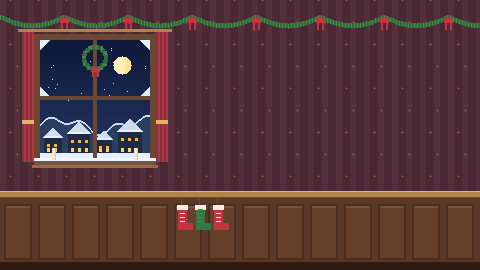
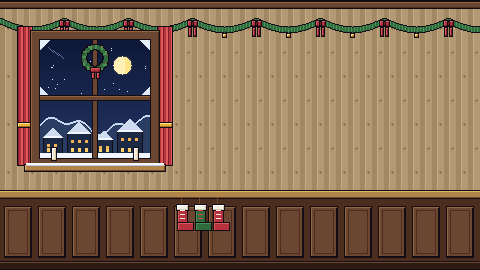
Claw room: walls and window repainted in the cabinet's style
Every object on the walls now has the cabinet's 1 px ink outline with a lit and a shaded edge: the
window's thick wooden casing, its snowy sill and candles, the curtains with folds and gold
tie-backs, the wreath, garland, bows and baubles, the stockings, the tree, the gifts and the
painting. The wallpaper is a warm tan so the red cabinet and Crimson stand out against it, and the
base wall underneath matches it. The window, candles, tree lights and star keep their places.

diff --git a/public/minigames/claw-noel.html b/public/minigames/claw-noel.html
@@ -438,14 +438,14 @@ function drawCabinetRoom(v){
      panel([wall(corner,y),wall(far,y),wall(far,h),wall(corner,h)],front,null);
      panel([side(-far,y),side(back,y),side(back,h),side(-far,h)],tint,null);
    }
-   // Under the painted walls (claw-room-*.png): the same plum wallpaper and wood, so no gap ever shows another colour.
-   wallBand(0,far,'#4a2833','#40232c');
+   // Under the painted walls (claw-room-*.png): the same tan wallpaper and wood, so no gap ever shows another colour.
+   wallBand(0,far,'#b49a74','#a38963');
    // Staggered masonry over dark painted wood panelling.
    for(let y=82,row=0;y<Math.min(far,height/v.scale+320);y+=20,row++){
-     wire([wall(corner,y),wall(far,y)],'#53303b',1);
-     wire([side(-far,y),side(back,y)],'#472830',1);
-     for(let x=corner+(row%2)*28;x<far;x+=56)wire([wall(x,y),wall(x,y+20)],'#53303b',1);
-     for(let z=back-(row%2)*28;z>-far;z-=56)wire([side(z,y),side(z,y+20)],'#472830',1);
+     wire([wall(corner,y),wall(far,y)],'#a38963',1);
+     wire([side(-far,y),side(back,y)],'#9a805b',1);
+     for(let x=corner+(row%2)*28;x<far;x+=56)wire([wall(x,y),wall(x,y+20)],'#a38963',1);
+     for(let z=back-(row%2)*28;z>-far;z-=56)wire([side(z,y),side(z,y+20)],'#9a805b',1);
    }
    wallBand(0,77,'#5a3826','#4a2d1f');
    for(let x=corner+9;x<far;x+=26)wire([wall(x,6),wall(x,73)],'#64402b',2);

diff --git a/tools/assets/make_claw_room.py b/tools/assets/make_claw_room.py
@@ -3,11 +3,17 @@
 Outputs (public/assets/ui/noel/):
   claw-room-back.png  640 x 270  back wall, x = -44 .. 596 (column c -> x = -44 + c)
   claw-room-side.png  480 x 270  left wall, z = 68 .. -412 (column c -> z = 68 - c)
-Both run well past the edges of the widest view, so the old masonry behind them never shows.
+Both run well past the edges of the widest view, so nothing behind them shows.
 Row r is wall height y = 270 - r on both.
-The page (public/minigames/claw-noel.html, drawCabinetRoom / drawRoomLife) maps each image onto its
-wall plane and animates what moves on top of them (window snow, candle flames, tree lights, the star),
-using the same column/row coordinates listed in ROOM_FX there. Keep the two in step.
+
+Drawn in the claw machine's own style: every object has a 1 px ink outline (the cabinet's
+#120c14), a lit top-left edge and a shaded bottom-right edge. The wallpaper is a warm tan so the
+red cabinet and Crimson stand out against it.
+
+The page (public/minigames/claw-noel.html, drawCabinetRoom / drawRoomLife / drawSnowballFight) maps
+each image onto its wall plane and animates what moves on top of them: window snow and the two
+skins playing outside (glass x 40..150, y 112..230; the middle bar at columns 93..96), candle
+flames (x 52 and 134), tree lights and the star. Keep those spots where they are.
 """
 from pathlib import Path
 import math, random
@@ -16,6 +22,13 @@ from PIL import Image, ImageDraw
 ROOT = Path(__file__).resolve().parents[2]
 OUT_DIR = ROOT / 'public/assets/ui/noel'
 H = 270
+INK = '#120c14'
+WOOD, WOOD_D, WOOD_L = '#6b4630', '#4a2d1f', '#93653f'
+PAPER, PAPER_D, PAPER_L, MOTIF = '#b49a74', '#a38963', '#c4ab84', '#8f744f'
+RED, RED_D, RED_L = '#b8323d', '#7d1f2b', '#dd5a5a'
+GREEN, GREEN_D, GREEN_L = '#2f6b3c', '#1f4a2a', '#4c9258'
+GOLD, GOLD_D, GOLD_L = '#e8b23a', '#a86e22', '#ffe08a'
+SNOW, SNOW_D = '#f2f6ff', '#bccbe3'
 
 
 class Wall:
@@ -33,26 +46,51 @@ class Wall:
     def px(self, c, y, col):
         self.rect(c, y, 1, 1, col)
 
+    def box(self, c, y, w, h, fill, light=None, dark=None):
+        """An outlined block: ink border, lit top and left edges, shaded bottom and right edges."""
+        self.rect(c, y, w, h, INK)
+        self.rect(c + 1, y + 1, w - 2, h - 2, fill)
+        if light:
+            self.rect(c + 1, y + h - 2, w - 2, 1, light); self.rect(c + 1, y + 1, 1, h - 2, light)
+        if dark:
+            self.rect(c + 1, y + 1, w - 2, 1, dark); self.rect(c + w - 2, y + 1, 1, h - 3, dark)
+
     def base(self):
         W, r = self.w, self.rect
-        r(0, 77, W, H - 77, '#4a2833')                      # plum wallpaper
-        for c in range(0, W, 14):
-            r(c, 77, 6, H - 77, '#53303b')
-        for y in range(92, H, 22):
-            for c in range(10, W, 28):
-                cc = c + (7 if (y // 22) % 2 else 0)
+        # wallpaper: soft vertical stripes with a small diamond motif
+        r(0, 77, W, H - 77, PAPER)
+        for c in range(0, W, 12):
+            r(c, 77, 5, H - 77, PAPER_D)
+            r(c + 5, 77, 1, H - 77, PAPER_L)
+        for y in range(96, H - 14, 24):
+            for c in range(8, W, 24):
+                cc = c + (12 if (y // 24) % 2 else 0)
                 for dy, w in ((0, 1), (1, 3), (2, 1)):
-                    r(cc - w // 2, y + dy, w, 1, '#7a5040')
-        r(0, 0, W, 77, '#5a3826')                           # wainscot
+                    r(cc - w // 2, y + dy, w, 1, MOTIF)
+        # crown moulding under the ceiling
+        r(0, H - 9, W, 9, INK); r(0, H - 8, W, 6, WOOD); r(0, H - 8, W, 1, WOOD_D); r(0, H - 3, W, 1, WOOD_L)
+        # wainscot: outlined raised panels with a bevel
+        r(0, 0, W, 77, WOOD_D)
         for c in range(4, W, 34):
-            r(c, 10, 28, 56, '#4a2d1f'); r(c + 2, 12, 24, 52, '#64402b'); r(c + 2, 62, 24, 2, '#7a5236')
-        r(0, 0, W, 8, '#2e1c14')
-        r(0, 72, W, 7, '#b0844a'); r(0, 78, W, 1, '#e3b56a'); r(0, 72, W, 1, '#6e4a26')
-        for c in range(W):                                  # garland swag with bows
-            y = 252 - int(9 * abs(math.sin(c * math.pi / 64)))
-            r(c, y - 2, 1, 5, '#2f6b3c' if c % 3 else '#3f8a4c')
+            self.box(c, 12, 28, 52, WOOD, WOOD_L, INK)
+            r(c + 4, 16, 20, 44, WOOD_D); r(c + 5, 17, 18, 42, WOOD)
+        r(0, 0, W, 9, INK); r(0, 1, W, 7, '#2e1c14'); r(0, 7, W, 1, WOOD)
+        # chair rail
+        r(0, 71, W, 9, INK); r(0, 72, W, 7, '#b0844a'); r(0, 78, W, 1, '#e3b56a'); r(0, 72, W, 1, '#6e4a26')
+        # garland swag with outlined bows and gold baubles
+        for c in range(W):
+            y = 248 - int(9 * abs(math.sin(c * math.pi / 64)))
+            r(c, y - 3, 1, 7, INK)
+            r(c, y - 2, 1, 5, GREEN if c % 3 else GREEN_L)
+            if c % 5 == 0:
+                r(c, y - 2, 1, 1, GREEN_D)
+        for c in range(32, W, 64):
+            y = 248 - int(9 * abs(math.sin(c * math.pi / 64)))
+            self.box(c - 2, y - 7, 5, 5, GOLD, GOLD_L, GOLD_D)
         for c in range(64, W, 64):
-            r(c - 4, 247, 9, 5, '#c8333f'); r(c - 3, 240, 2, 7, '#c8333f'); r(c + 2, 240, 2, 7, '#c8333f')
+            self.box(c - 5, 243, 11, 7, RED, RED_L, RED_D)
+            self.box(c - 4, 233, 4, 10, RED, RED_L, RED_D); self.box(c + 1, 233, 4, 10, RED, RED_L, RED_D)
+            self.box(c - 1, 244, 3, 5, RED_D)
 
     def save(self, name):
         path = OUT_DIR / name
@@ -63,86 +101,116 @@ class Wall:
 # ---------------------------------------------------------------- back wall: tree, gifts, painting
 back = Wall(640)
 back.base()
-r, p = back.rect, back.px
-# a framed winter painting above where Crimson stands
-FX, FY = 214, 150
-r(FX - 3, FY - 3, 50, 40, '#b0844a'); r(FX - 2, FY - 2, 48, 38, '#6e4a26')
+r, p, box = back.rect, back.px, back.box
+FX, FY = 214, 150                                           # a framed winter painting
+box(FX - 5, FY - 5, 54, 44, '#b0844a', GOLD_L, '#6e4a26')
+r(FX - 2, FY - 2, 48, 38, INK)
 for i in range(34):
     t = i / 34
     r(FX, FY + i, 44, 1, (int(40 - 20 * t), int(70 - 30 * t), int(120 - 40 * t), 255))
 for c in range(44):
     h = int(10 + 4 * math.sin(c / 6))
     r(FX + c, FY, 1, h, '#e6eefb')
-for k in range(7):                                         # a little pine in the painting
-    r(FX + 30 - k, FY + 8 + k * 2, 2 * k + 1, 2, '#2f6b3c')
-r(FX + 8, FY + 24, 4, 4, '#fff0b8')                         # moon
+    r(FX + c, FY + h, 1, 1, SNOW_D)
+for k in range(7):
+    r(FX + 30 - k, FY + 8 + k * 2, 2 * k + 1, 2, GREEN)
+r(FX + 8, FY + 24, 4, 4, '#fff0b8')
 TX = 262 + 44                                               # tree trunk centre (x = 262)
-r(TX - 4, 10, 9, 12, '#5a3a24')
+box(TX - 5, 9, 11, 14, '#5a3a24', '#7a5230', '#3a2416')
 for base_y, top, half in ((22, 82, 42), (70, 128, 33), (114, 166, 24), (152, 196, 14)):
     for y in range(base_y, top):
         w = int(half * (1 - (y - base_y) / (top - base_y))) + 1
-        for x in range(-w, w + 1):
-            p(TX + x, y, '#1f5a34' if abs(x) >= w - 1 else ('#2f7a46' if (x + y) % 5 else '#3a8c52'))
+        for x in range(-w - 1, w + 2):
+            if abs(x) >= w:
+                p(TX + x, y, INK)
+            else:
+                p(TX + x, y, '#1f5a34' if x > w // 2 else ('#2f7a46' if (x + y) % 5 else '#3a8c52'))
+    for x in range(-half, half + 1):
+        p(TX + x, base_y, INK)
+        if abs(x) < half - 1:
+            p(TX + x, base_y + 1, SNOW if (x // 3) % 2 else SNOW_D)
 for k in range(5):                                          # tinsel
     for x in range(-40 + k * 8, 41 - k * 8):
         p(TX + x, 40 + k * 32 + int(4 * math.sin((x + k * 9) / 6)), '#e8c060' if (x // 2) % 2 else '#fff0a8')
-for ox, oy, col in ((-22, 50, '#c8333f'), (18, 58, '#3e6fd0'), (-8, 96, '#e8c060'), (16, 108, '#c8333f'),
-                    (-14, 140, '#3e6fd0'), (6, 150, '#e8c060'), (-28, 30, '#e8c060'), (30, 34, '#c8333f')):
-    r(TX + ox - 2, oy - 2, 5, 5, col); p(TX + ox - 1, oy + 1, '#ffffff')
-r(TX - 1, 196, 3, 4, '#b8862c')                             # star stem (the star is animated)
-for gx, gw, gh, body, ribbon in ((250, 26, 20, '#c8333f', '#f2d27a'), (280, 18, 14, '#3e6fd0', '#f4efe4'),
-                                 (328, 24, 18, '#2f7a46', '#e0414a'), (350, 14, 24, '#e8c060', '#c8333f')):
-    r(gx, 8, gw, gh, body); r(gx + gw // 2 - 1, 8, 3, gh, ribbon); r(gx, 8 + gh // 2, gw, 2, ribbon)
-    r(gx + gw // 2 - 4, 8 + gh, 3, 3, ribbon); r(gx + gw // 2 + 2, 8 + gh, 3, 3, ribbon)
+for ox, oy, col, lit in ((-22, 50, RED, RED_L), (18, 58, '#3e6fd0', '#7fa8ff'), (-8, 96, GOLD, GOLD_L), (16, 108, RED, RED_L),
+                         (-14, 140, '#3e6fd0', '#7fa8ff'), (6, 150, GOLD, GOLD_L), (-28, 30, GOLD, GOLD_L), (30, 34, RED, RED_L)):
+    box(TX + ox - 3, oy - 3, 7, 7, col, lit)
+    p(TX + ox - 1, oy + 1, '#ffffff')
+box(TX - 2, 195, 5, 5, '#b8862c')                           # star stem (the star is animated)
+for gx, gw, gh, body, lit, ribbon in ((250, 26, 20, RED, RED_L, '#f2d27a'), (280, 18, 14, '#3e6fd0', '#7fa8ff', '#f4efe4'),
+                                      (328, 24, 18, GREEN, GREEN_L, '#e0414a'), (350, 14, 24, GOLD, GOLD_L, RED)):
+    box(gx, 8, gw, gh, body, lit, INK)
+    r(gx + gw // 2 - 1, 9, 3, gh - 2, ribbon); r(gx + 1, 8 + gh // 2, gw - 2, 2, ribbon)
+    box(gx + gw // 2 - 6, 7 + gh, 5, 4, ribbon); box(gx + gw // 2 + 2, 7 + gh, 5, 4, ribbon)
 back.save('claw-room-back.png')
 
 # ---------------------------------------------------------------- side wall: window, stockings
 side = Wall(480)
 side.base()
-r, p = side.rect, side.px
+r, p, box = side.rect, side.px, side.box
 rnd = random.Random(7)
 WX, WY, WW, WH = 40, 112, 110, 118                          # window glass
-for i in range(WH):
+# curtains behind the frame: deep red with folds, an ink edge and gold tie-backs
+for cx in (WX - 22, WX + WW + 8):
+    r(cx - 1, WY - 8, 16, WH + 22, INK)
+    for i in range(14):
+        r(cx + i, WY - 7, 1, WH + 20, RED_D if i % 5 == 0 else RED if i % 5 < 3 else RED_L)
+    box(cx - 1, WY + 30, 16, 6, GOLD, GOLD_L, GOLD_D)
+# frame: an outlined wooden casing with a bevel
+box(WX - 10, WY - 10, WW + 20, WH + 20, WOOD, WOOD_L, WOOD_D)
+r(WX - 1, WY - 1, WW + 2, WH + 2, INK)
+for i in range(WH):                                         # night sky
     t = i / WH
     r(WX, WY + i, WW, 1, (int(36 - 22 * t), int(54 - 30 * t), int(100 - 44 * t), 255))
-for _ in range(28):
+for _ in range(34):
     p(WX + rnd.randrange(WW), WY + 55 + rnd.randrange(WH - 60), '#dfe9ff')
-for dy in range(-9, 10):
-    for dx in range(-9, 10):
-        if dx * dx + dy * dy <= 81:
-            p(WX + 82 + dx, WY + 92 + dy, '#fff0b8' if dx < 3 else '#ffe48a')
-for x in range(WW):
+for dy in range(-10, 11):                                   # moon with a soft ink rim
+    for dx in range(-10, 11):
+        d2 = dx * dx + dy * dy
+        if d2 <= 100:
+            p(WX + 82 + dx, WY + 92 + dy, '#2c3550' if d2 > 81 else '#fff0b8' if dx < 3 else '#ffe48a')
+for x in range(WW):                                         # snowy hills
     h = int(34 + 6 * math.sin(x / 13) + 4 * math.sin(x / 5.3))
     r(WX + x, WY, 1, h, '#2a3d63'); r(WX + x, WY + h - 2, 1, 2, '#c9d9ef')
 for hx, hw, hh in ((4, 18, 20), (28, 22, 24), (56, 16, 18), (78, 24, 26)):
+    r(WX + hx - 1, WY, hw + 2, hh + 1, INK)
     r(WX + hx, WY, hw, hh, '#1d2a45')
     for k in range(hw // 2 + 2):
-        r(WX + hx - 1 + k, WY + hh + k, hw + 2 - 2 * k, 1, '#e8f1ff' if k < 2 else '#cfdcf0')
+        r(WX + hx - 1 + k, WY + hh + k, hw + 2 - 2 * k, 1, SNOW if k < 2 else '#cfdcf0')
     for wx in range(hx + 3, hx + hw - 3, 7):
         r(WX + wx, WY + 6, 3, 4, '#ffcf6a'); r(WX + wx, WY + hh - 9, 3, 3, '#f5b453')
-r(WX, WY, WW, 5, '#e6eefb')
-r(WX - 6, WY - 8, WW + 12, 8, '#7a5133'); r(WX - 8, WY - 10, WW + 16, 3, '#9b6a40'); r(WX - 6, WY - 3, WW + 12, 3, '#f2f6ff')
-r(WX - 6, WY, 6, WH + 6, '#6b4630'); r(WX + WW, WY, 6, WH + 6, '#6b4630'); r(WX - 6, WY + WH, WW + 12, 6, '#6b4630')
-r(WX + WW // 2 - 2, WY, 4, WH, '#6b4630'); r(WX, WY + 58, WW, 4, '#6b4630')
-for k in range(10):
+r(WX, WY, WW, 5, SNOW)
+for k in range(10):                                         # frost in the corners
     for c0 in (WX + k, WX + WW - 1 - k):
         r(c0, WY + 62, 1, 9 - k, '#dfeaff'); r(c0, WY + WH - 10 + k, 1, 10 - k, '#e7f0ff')
-for cx in (WX - 18, WX + WW + 6):
-    for i in range(12):
-        r(cx + i, WY - 4, 1, WH + 12, '#8e2f3c' if i % 4 < 2 else '#a93a46')
-    r(cx, WY + 34, 12, 4, '#e3b56a')
-r(WX - 22, WY + WH + 8, WW + 44, 3, '#b0844a')
+for g in range(3):                                          # glass glints
+    for k in range(6):
+        p(WX + 8 + g * 5 + k, WY + WH - 8 - g * 3 - k, '#5d6f9c')
+# muntins: the middle bar (redrawn by the page over the children outside) and the cross bar
+r(WX + WW // 2 - 3, WY, 6, WH, INK); r(WX + WW // 2 - 2, WY, 4, WH, WOOD)
+r(WX, WY + 57, WW, 6, INK); r(WX, WY + 58, WW, 4, WOOD); r(WX, WY + 61, WW, 1, WOOD_L)
+# sill with snow, then candles standing on it (flames are animated)
+box(WX - 16, WY - 14, WW + 32, 8, '#b0844a', '#e3b56a', '#6e4a26')
+r(WX - 14, WY - 7, WW + 28, 2, SNOW); r(WX - 12, WY - 8, WW + 24, 1, SNOW_D)
+for cx in (WX + 12, WX + WW - 16):
+    box(cx - 1, WY - 3, 6, 14, '#f2e6cc', '#ffffff', '#d6c6a6')
+# wreath on the glass
 cx, cy = WX + WW // 2, WY + WH - 18
 for a in range(0, 360, 10):
     x = cx + round(11 * math.cos(math.radians(a))); y = cy + round(11 * math.sin(math.radians(a)))
-    r(x - 2, y - 2, 4, 4, '#2f6b3c' if a % 30 else '#3f8a4c')
+    r(x - 3, y - 3, 6, 6, INK)
+for a in range(0, 360, 10):
+    x = cx + round(11 * math.cos(math.radians(a))); y = cy + round(11 * math.sin(math.radians(a)))
+    r(x - 2, y - 2, 4, 4, GREEN if a % 30 else GREEN_L)
 for a in range(15, 360, 45):
     p(cx + round(11 * math.cos(math.radians(a))), cy + round(11 * math.sin(math.radians(a))), '#e0414a')
-r(cx - 4, cy - 14, 9, 4, '#c8333f'); r(cx - 3, cy - 19, 2, 5, '#c8333f'); r(cx + 2, cy - 19, 2, 5, '#c8333f')
-for cx in (WX + 12, WX + WW - 16):                          # candles (flames are animated)
-    r(cx, WY - 2, 4, 12, '#f2e6cc'); r(cx + 3, WY - 2, 1, 12, '#d6c6a6')
-for i, (sx, col) in enumerate(((178, '#c8333f'), (196, '#2f7a46'), (214, '#c8333f'))):
-    r(sx + 3, 64, 1, 8, '#6e4a26'); r(sx, 46, 9, 18, col); r(sx, 40, 15, 7, col); r(sx - 1, 60, 11, 5, '#f4efe4')
-    for k in range(0, 14, 4):
-        r(sx + 2, 48 + k, 5, 1, '#f4efe4' if i != 1 else '#e0414a')
+box(cx - 5, cy - 15, 11, 6, RED, RED_L, RED_D); box(cx - 4, cy - 21, 4, 7, RED, RED_L); box(cx + 1, cy - 21, 4, 7, RED, RED_L)
+# stockings hanging from the chair rail
+for i, (sx, col, lit) in enumerate(((178, RED, RED_L), (196, GREEN, GREEN_L), (214, RED, RED_L))):
+    r(sx + 3, 62, 1, 10, '#6e4a26')
+    box(sx - 1, 45, 11, 20, col, lit)
+    box(sx - 1, 39, 17, 9, col, lit)
+    box(sx - 2, 59, 13, 7, '#f4efe4', '#ffffff', '#cfc6b4')
+    for k in range(2, 14, 4):
+        r(sx + 2, 49 + k, 5, 1, '#f4efe4' if i != 1 else '#e0414a')
 side.save('claw-room-side.png')
